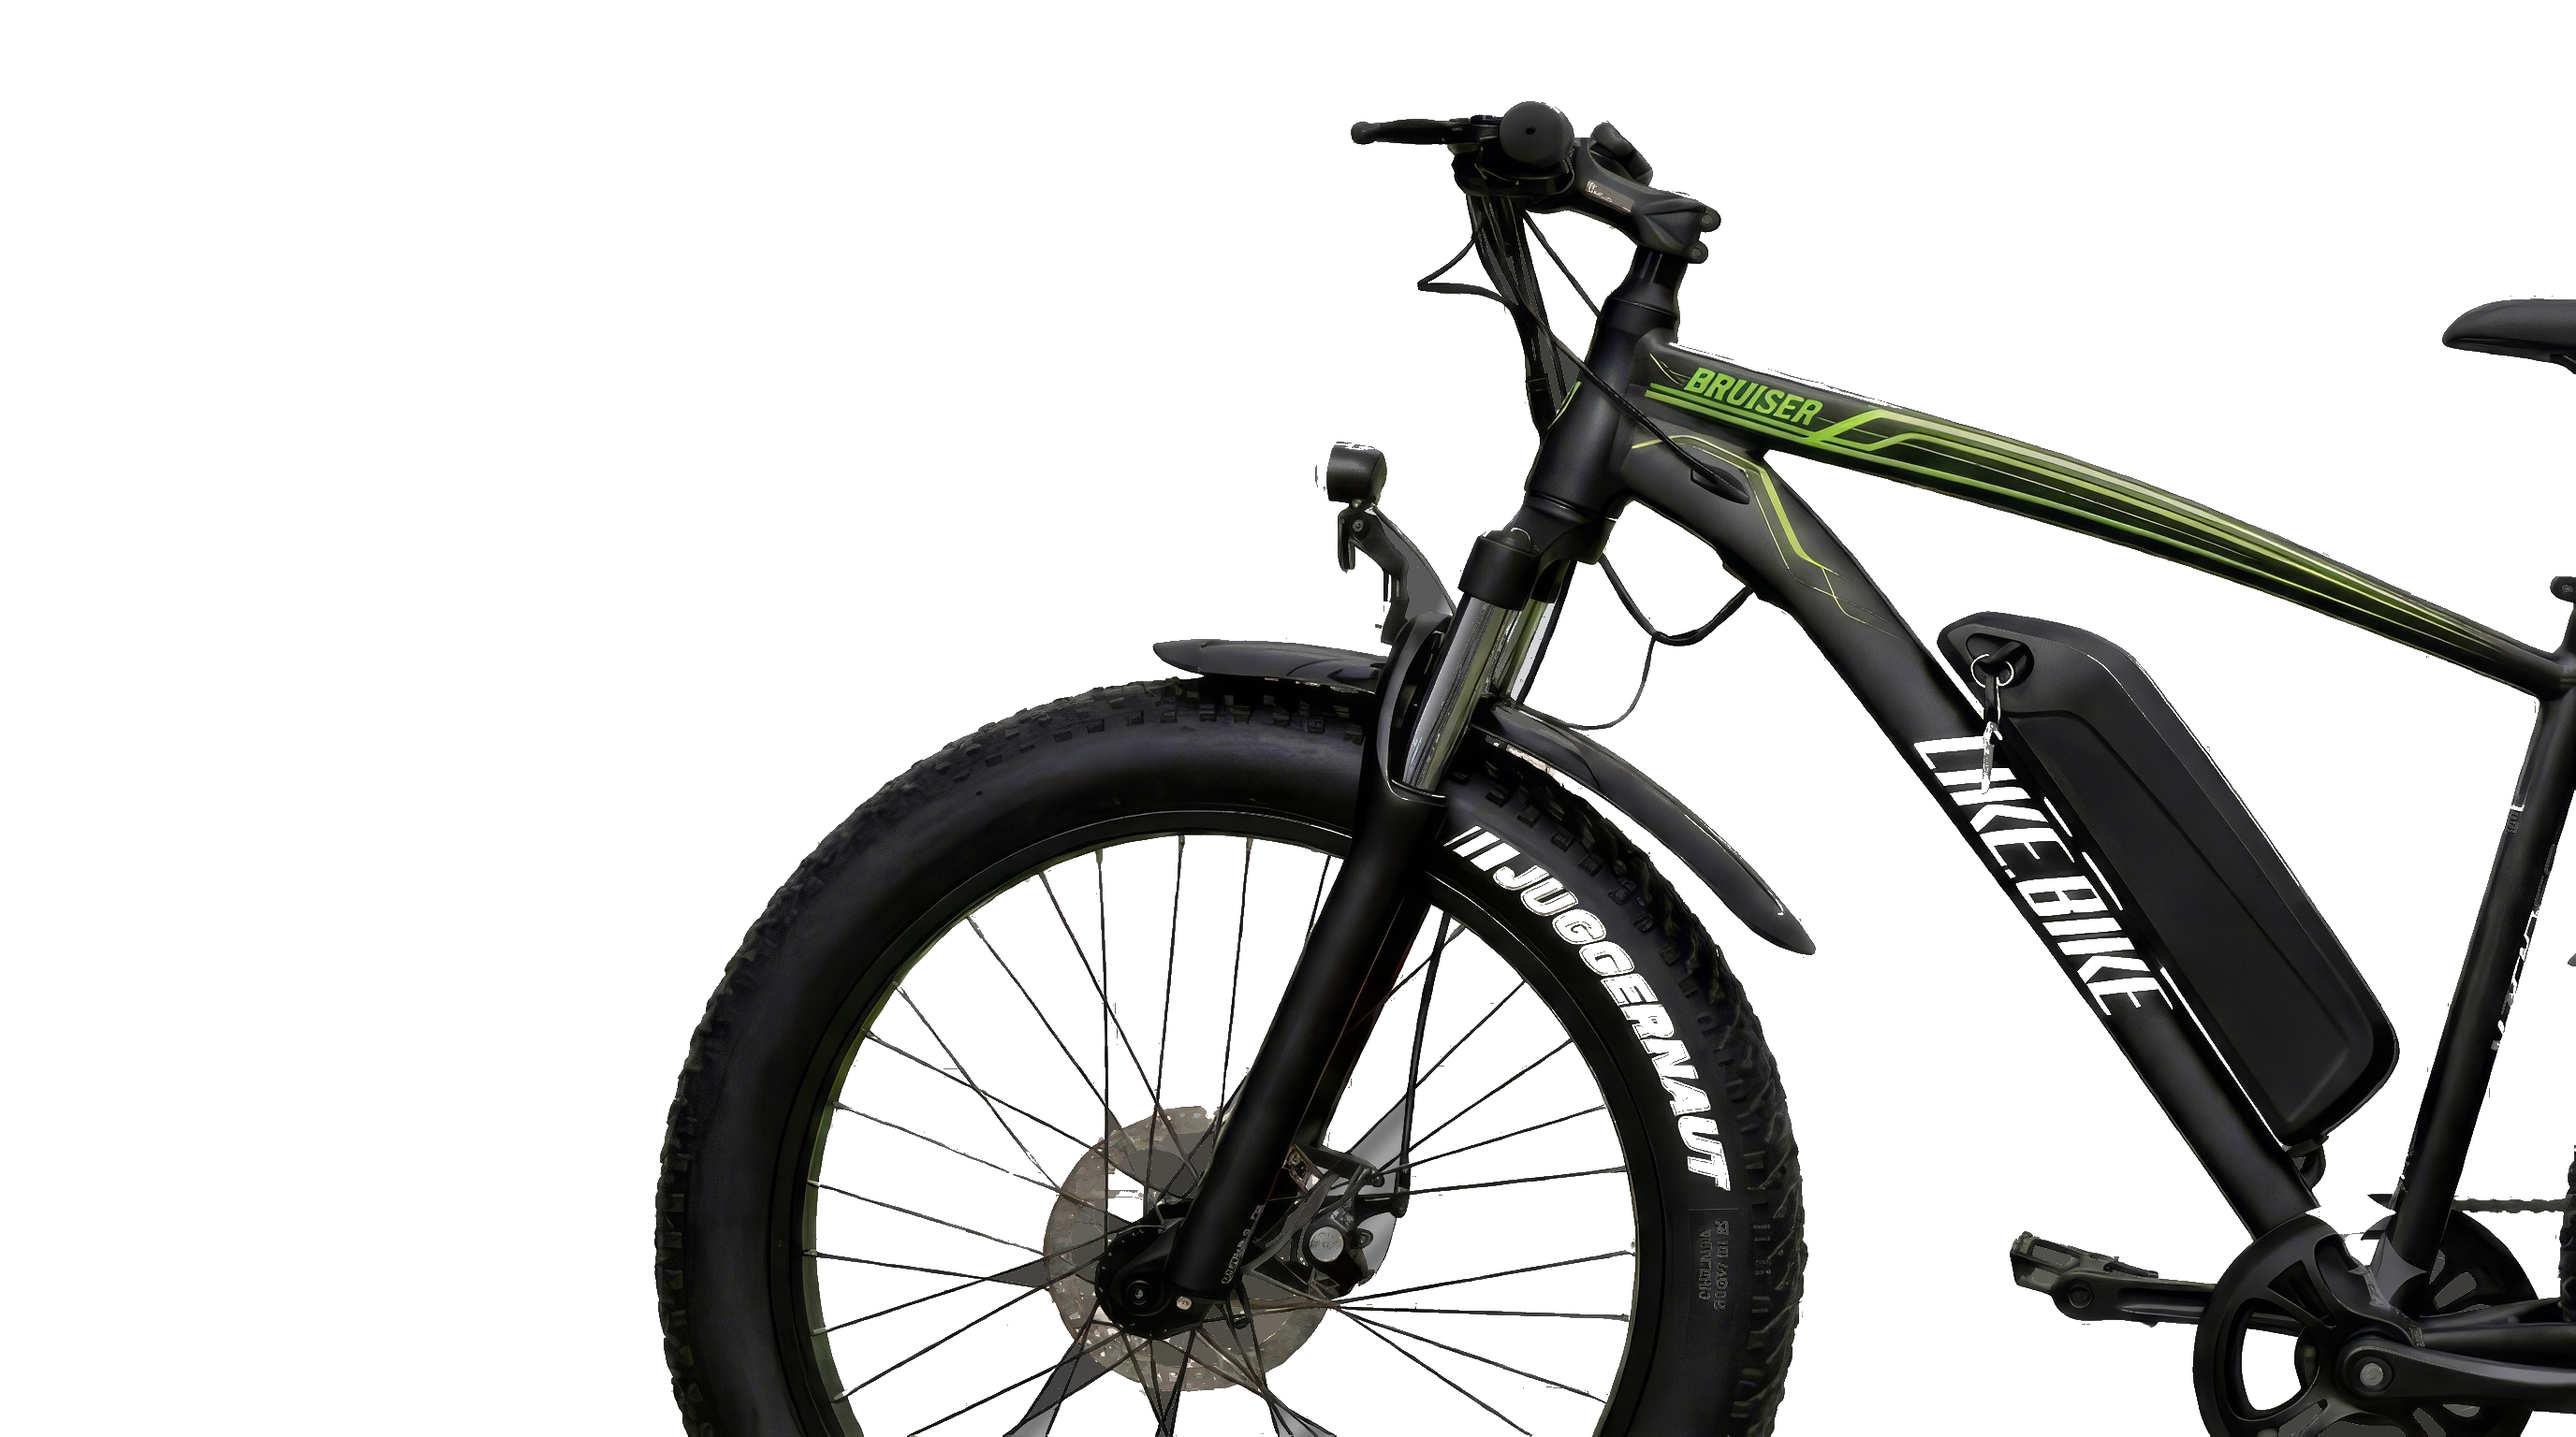
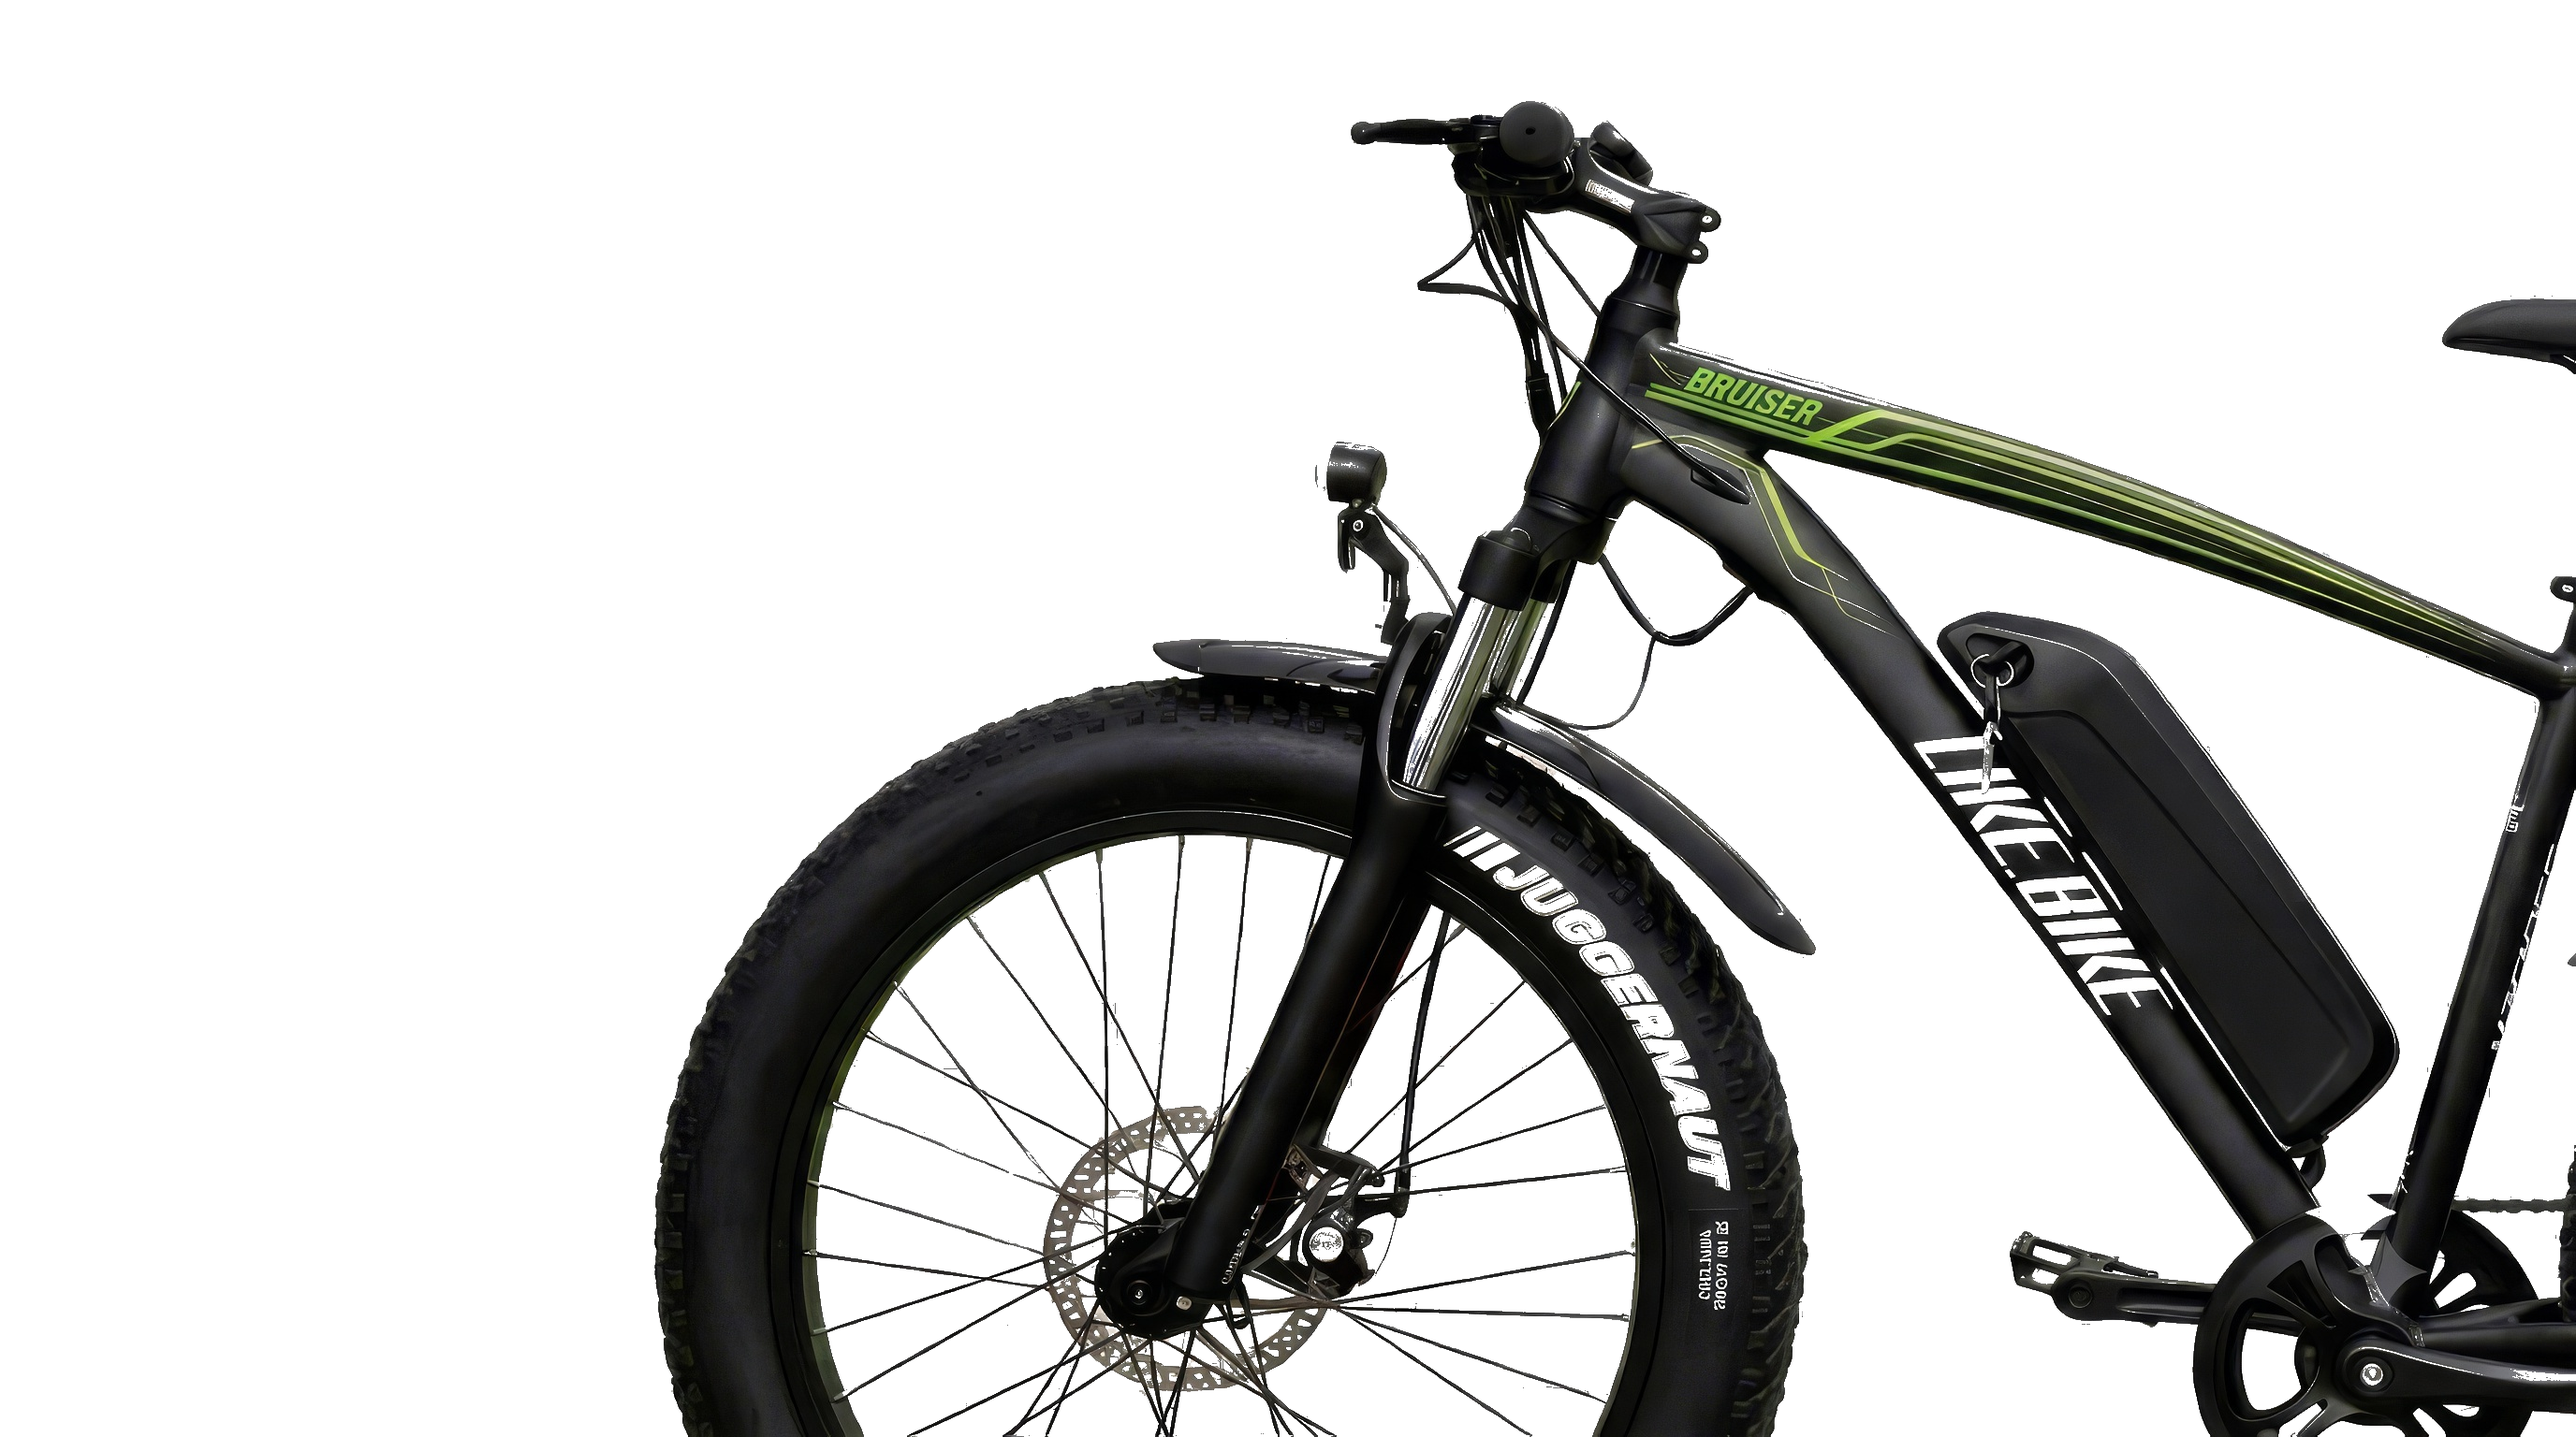
fix(bike): restore pristine Like.Bike Bruiser asset with monolithic frame, solid steel rotor, and reset destructive CSS filters

diff --git a/style.css b/style.css
@@ -2006,7 +2006,9 @@ body.dark-theme .hero-crosser-btn-calc {
    HERO LIKE.BIKE BRUISER SLIDE (SLIDE 3: ЧИСТЫЙ БЕЛЫЙ ХОЛСТ И ЧИТАЕМЫЙ ТЕКСТ)
    ========================================================================== */
 #heroSlide3,
-.slide-bike-clean {
+.slide-bike-clean,
+.slide-bruiser,
+.hero-slide-bruiser {
     background: #FFFFFF !important;
     background-color: #FFFFFF !important;
 }
@@ -2017,7 +2019,16 @@ html.dark-theme #heroSlide3,
 [data-theme="dark"] #heroSlide3,
 body.dark #heroSlide3,
 body.theme-dark #heroSlide3,
-body.dark-theme #heroSlide3 {
+body.dark-theme #heroSlide3,
+html.dark .slide-bike-clean,
+html.dark .slide-bruiser,
+html.dark .hero-slide-bruiser,
+body.dark .slide-bike-clean,
+body.dark .slide-bruiser,
+body.dark .hero-slide-bruiser,
+[data-theme="dark"] .slide-bike-clean,
+[data-theme="dark"] .slide-bruiser,
+[data-theme="dark"] .hero-slide-bruiser {
     background: #080A0C !important;
     background-color: #080A0C !important;
 }
@@ -2140,19 +2151,25 @@ body.dark-theme #heroSlide3 {
     justify-content: flex-end !important;
 }
 
-/* Полный сброс фильтров и искажений для изображения техники на слайде */
+/* Полный сброс всех деструктивных CSS-свойств для <img> велосипеда */
+.slide-bruiser img,
+.hero-slide-bruiser img,
 .slide-bike-img, 
 .hero-slide img {
     filter: none !important;
     mix-blend-mode: normal !important;
+    -webkit-mask: none !important;
+    mask: none !important;
     opacity: 1 !important;
     image-rendering: auto !important;
+    background: transparent !important;
     -webkit-backface-visibility: hidden;
     transform: translateZ(0); /* Аппаратное сглаживание без потери четкости */
 }
 
 .slide-bike-img {
     position: relative !important;
+    z-index: 2 !important;
     right: 0 !important;
     bottom: 0 !important;
     height: 95% !important;
@@ -2165,8 +2182,11 @@ body.dark-theme #heroSlide3 {
     -webkit-user-drag: none !important;
 }
 
-/* Фара велосипеда в темной теме */
+/* Фара велосипеда в темной теме - строго отдельный слой позади тела велосипеда (z-index: 1) */
 .bike-hero-headlight {
+    position: absolute !important;
+    z-index: 1 !important;
+    pointer-events: none !important;
     width: 38px;
     height: 38px;
     left: 52.6%;

diff --git a/index.html b/index.html
@@ -1753,7 +1753,7 @@
         </div>
 
         <!-- СЛАЙД 3 (LIKE.BIKE BRUISER: БЕЛЫЙ МИНИМАЛИСТИЧНЫЙ ФОН И ЧИТАЕМЫЙ ТЕКСТ) -->
-        <div class="hero-slide slide-bike-clean" id="heroSlide3" data-index="2"
+        <div class="hero-slide slide-bike-clean slide-bruiser hero-slide-bruiser" id="heroSlide3" data-index="2"
             style="position: absolute; inset: 0; width: 100%; height: 100%; display: flex; align-items: center; overflow: hidden;">
 
             <!-- Текстовая колонка слева: жесткая ширина 45%, отступ 64px, без сжатия -->
@@ -1785,9 +1785,9 @@
 
             <!-- Велосипед в правой части слайда: масштаб 95%, зазор от текста -->
             <div class="slide-bike-wrapper">
-                <img src="images/like-bike-bruiser-hq.png" alt="Like.Bike Bruiser" class="slide-bike-img">
-                <!-- Headlight glow for dark theme -->
+                <!-- Фонарик: луч света реализовывать ТОЛЬКО отдельным мягким градиентным слоем позади фары, не затрагивая само тело велосипеда -->
                 <div class="hero-headlight-lens bike-hero-headlight"></div>
+                <img src="images/like-bike-bruiser-hq.png" alt="Like.Bike Bruiser" class="slide-bike-img">
             </div>
         </div>
 
